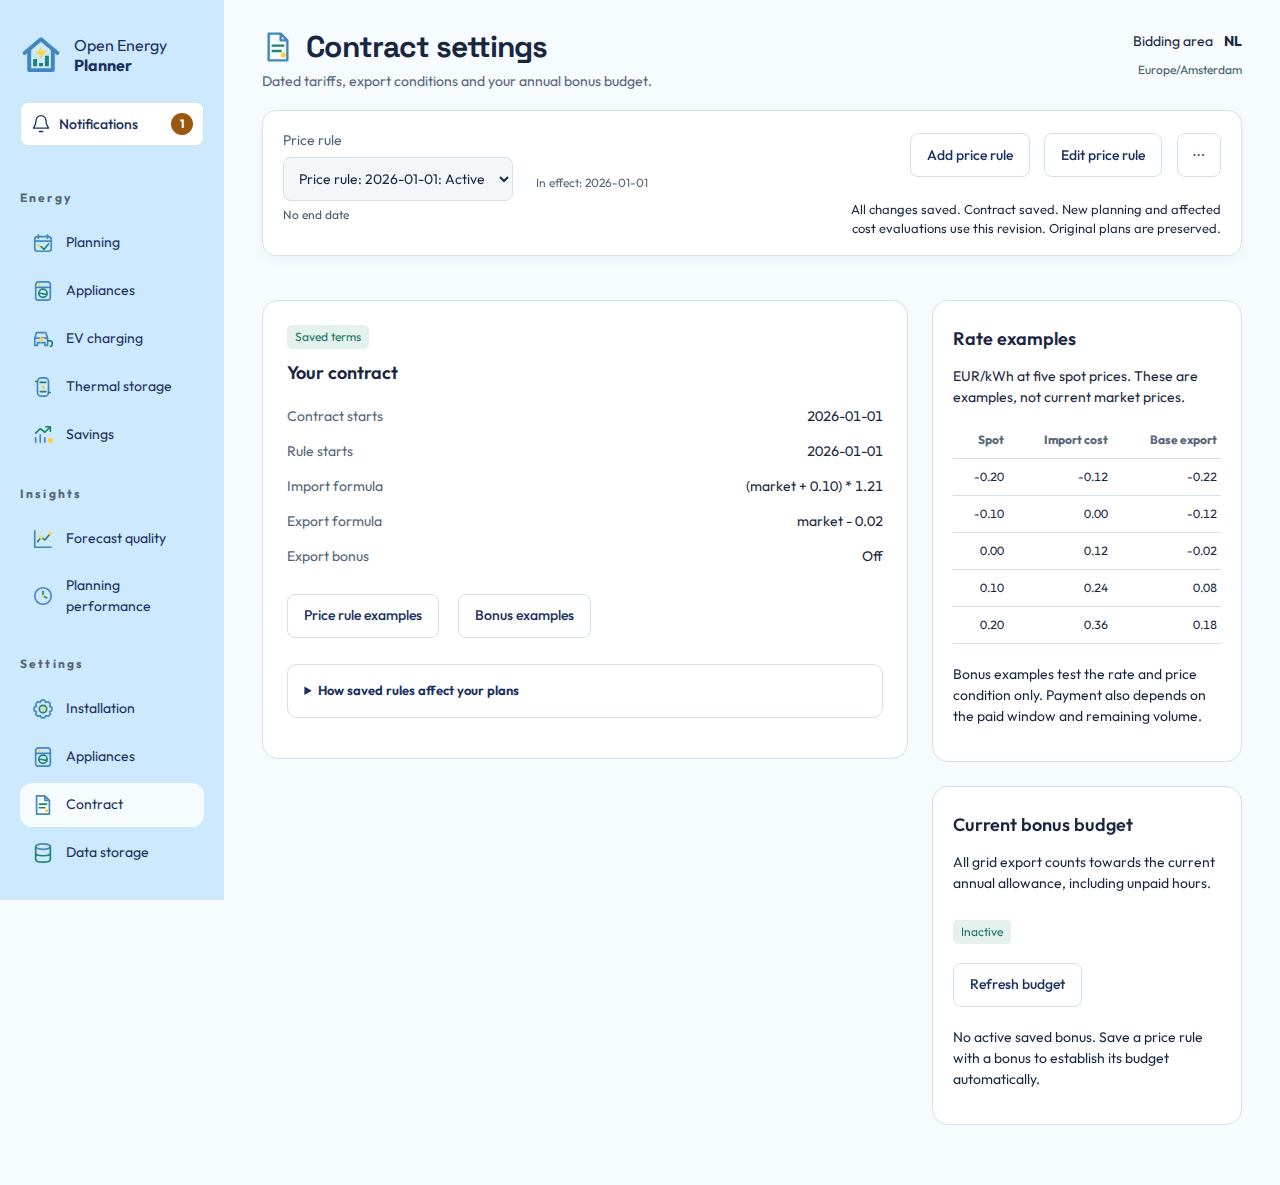
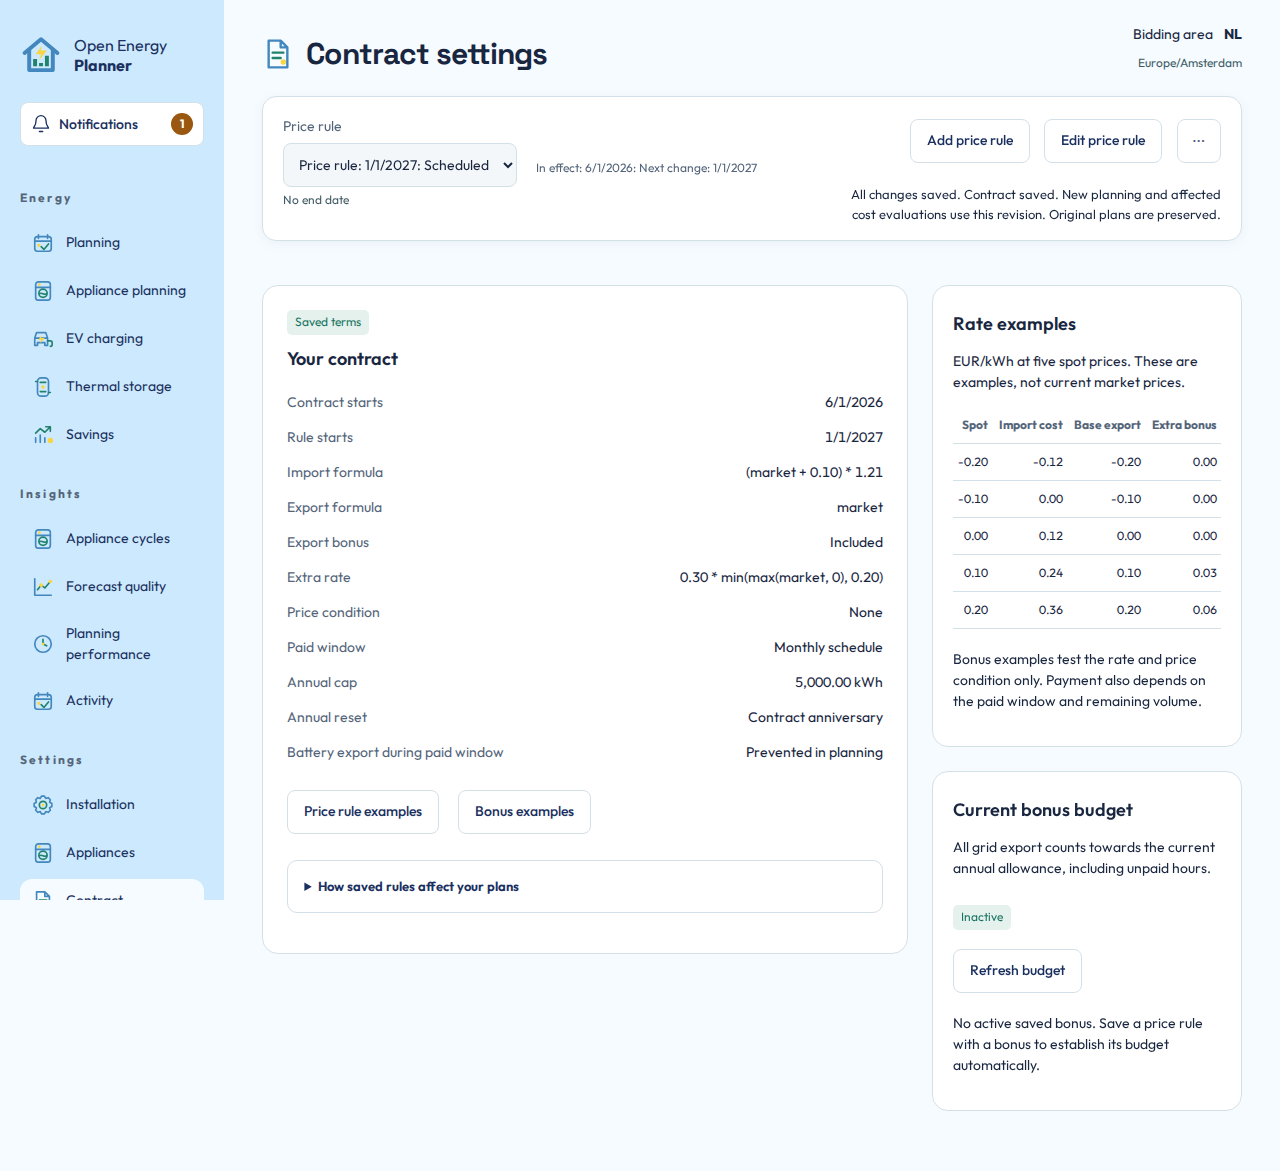
docs: show contract bonus settings and Budget Energie example

diff --git a/tests/frontend/browser/test_documentation_examples.py b/tests/frontend/browser/test_documentation_examples.py
@@ -1,5 +1,6 @@
 """Capture useful guide figures from real pages with explicitly synthetic example data."""
 
+import json
 from pathlib import Path
 
 import pytest
@@ -8,6 +9,7 @@ from playwright.sync_api import expect
 from tests.frontend.browser.documentation_fixture import START, quality_document
 from tests.frontend.browser.helpers import (
     TOKEN,
+    add_price_rule,
     connect,
     discover,
     edit_price_rule,
@@ -120,20 +122,88 @@ def test_documentation_installation_shows_saved_limits_and_real_source_relations
 
 
 def test_documentation_contract_explains_actual_formula_preview(app_page):
-    """Save dated formulas whose 0.10-EUR market example has 0.24 import and 0.08 export rates."""
+    """Save the Budget bonus example with separate rates, monthly hours and battery protection."""
     page, url = app_page
     discover(page, url)
     authenticate(page, url, "/contract")
     edit_price_rule(page)
-    page.get_by_label("Contract starts", exact=True).fill("2026-01-01")
-    page.get_by_label("Price rule starts", exact=True).fill("2026-01-01")
+    page.get_by_label("Contract starts", exact=True).fill("2026-06-01")
+    page.get_by_label("Price rule starts", exact=True).fill("2026-06-01")
     page.get_by_label("Import formula", exact=True).fill("(market + 0.10) * 1.21")
-    page.get_by_label("Export formula", exact=True).fill("market - 0.02")
-    page.get_by_role("button", name="Preview rates", exact=True).click()
-    expect(page.locator("#contract-preview")).to_contain_text("0.24")
-    expect(page.locator("#contract-preview")).to_contain_text("0.08")
+    page.get_by_label("Export formula", exact=True).fill("market")
     page.get_by_role("button", name="Save contract", exact=True).click()
     expect(page.locator("#contract-status")).to_contain_text("Contract saved")
+    add_price_rule(page)
+    rule = page.locator("#contract-periods > details:not([hidden])")
+    rule.get_by_label("Price rule starts", exact=True).fill("2027-01-01")
+    rule.get_by_role("checkbox", name="Include export bonus", exact=True).check()
+    rule.get_by_label("Extra export rate", exact=True).fill("0.30 * min(max(market, 0), 0.20)")
+    rule.get_by_label("Annual export cap (kWh)", exact=True).fill("5000")
+    rule.get_by_label("Annual reset", exact=True).select_option("contract_anniversary")
+    rule.get_by_label("Paid window", exact=True).select_option("monthly_schedule")
+    rule.get_by_text("Monthly hours", exact=True).click()
+    monthly_hours = (
+        ("January", "09:00", "17:00"),
+        ("February", "08:00", "18:00"),
+        ("March", "07:00", "19:00"),
+        ("April", "07:00", "21:00"),
+        ("May", "06:00", "21:00"),
+        ("June", "05:00", "22:00"),
+        ("July", "06:00", "22:00"),
+        ("August", "06:00", "21:00"),
+        ("September", "07:00", "20:00"),
+        ("October", "08:00", "19:00"),
+        ("November", "08:00", "17:00"),
+        ("December", "09:00", "17:00"),
+    )
+    for month, start, end in monthly_hours:
+        rule.get_by_label(f"{month} start", exact=True).fill(start)
+        rule.get_by_label(f"{month} end", exact=True).fill(end)
+    rule.get_by_role(
+        "checkbox", name="Prevent battery export during paid window", exact=True
+    ).check()
+    page.get_by_role("button", name="Preview rates", exact=True).click()
+    expect(page.locator("#contract-preview")).to_contain_text("0.24")
+    expect(page.locator("#contract-preview")).to_contain_text("0.03")
+    page.get_by_role("button", name="Save contract", exact=True).click()
+    expect(page.locator("#contract-status")).to_contain_text("Contract saved")
+    saved = page.request.get(
+        url + "/v1/contracts", headers={"Authorization": "Bearer " + TOKEN}
+    ).json()
+    assert len(saved["periods"]) == 2
+    assert saved["periods"][1]["export_formula"] == "market"
+    bonus = next(rule for rule in saved["bonuses"] if rule["rate_formula"] != "0")
+    assert bonus["rate_formula"] == "0.30 * min(max(market, 0), 0.20)"
+    assert bonus["cap_kwh"] == 5000
+    assert (bonus["reset_month"], bonus["reset_day"]) == (6, 1)
+    assert bonus["prevent_battery_export"] is True
+    assert bonus["window"] == "monthly_schedule"
+    assert bonus["monthly_schedule"] == [
+        {"start_time": start, "end_time": end} for _, start, end in monthly_hours
+    ]
+    catalogue = (
+        Path(__file__).resolve().parents[3] / "docs/development/CONTRACT-EXAMPLES-NL.md"
+    ).read_text(encoding="utf-8")
+    budget_example = catalogue.split("## Budget Energie ZonneBonus\n", 1)[1]
+    fragment = json.loads(budget_example.split("```json\n", 1)[1].split("```", 1)[0])
+    assert fragment["export_formula"] == saved["periods"][1]["export_formula"]
+    for field, value in fragment["bonuses"][0].items():
+        if field not in {"rule_id", "effective_from"}:
+            assert bonus[field] == value, field
+    preview = next(item for item in saved["bonus_preview"] if item["rule_id"] == bonus["rule_id"])
+    for sample in preview["samples"]:
+        market = sample["market"]
+        assert sample["extra_rate"] == pytest.approx(0 if market <= 0 else min(market * 0.30, 0.06))
+    summary = page.locator("#contract-summary")
+    for expected in (
+        "0.30 * min(max(market, 0), 0.20)",
+        "5,000.00 kWh",
+        "Contract anniversary",
+        "Monthly schedule",
+        "Prevented in planning",
+    ):
+        expect(summary).to_contain_text(expected)
+    assert page.evaluate("document.documentElement.scrollWidth <= innerWidth")
     capture(page, "contract-rule")
 
 

diff --git a/docs/development/CONTRACT-EXAMPLES-NL.md b/docs/development/CONTRACT-EXAMPLES-NL.md
@@ -53,7 +53,7 @@ period dates and `expected_version` as described in [contract settings](CONTRACT
 
 The `2027-01-01` effective dates illustrate the user's contract configuration.
 They are not claimed supplier launch dates. Use the customer's actual start date.
-The two suppliers are alternatives, not two rewards to enable on one contract.
+The supplier examples are alternatives, not rewards to enable together on one contract.
 
 ## Zonneplan Zonnebonus
 
@@ -192,9 +192,125 @@ counter and tax/VAT terms before actual use. The fragment does not claim exact
 supplier settlement where those conditions differ. Source:
 [NextEnergy terms index](https://www.nextenergy.nl/meer-info/voorwaarden).
 
+## Budget Energie ZonneBonus
+
+### What the bonus means
+
+The [Budget Thuis action terms dated 20 October 2026](https://www.budgetthuis.nl/docs/Actievoorwaarden_ZonneBonus.pdf),
+checked on **17 November 2026**, describe a bonus from 1 January 2027. It adds
+30.0% of a positive wholesale price, with that price capped at EUR 0.20/kWh for
+the bonus calculation. The extra rate therefore cannot exceed EUR 0.06/kWh.
+The allowance is 5,000 kWh per supply year. Payment uses a different daytime
+window each month. Battery use to obtain more bonus is prohibited.
+
+### Translation into OEP rules
+
+| Component | OEP configuration |
+|---|---|
+| Base export price | `export_formula: market` |
+| Separate bonus rate | `rate_formula: 0.30 * min(max(market, 0), 0.20)` |
+| Nonpositive wholesale price | The formula returns zero. No separate price condition is needed |
+| Payment window | `window: monthly_schedule`, using all twelve ranges below |
+| Annual allowance | `cap_kwh: 5000` |
+| Annual reset | **Contract anniversary**, derived from **Contract starts** |
+| Battery protection | `prevent_battery_export: true` |
+| Import formula | Copy the signed tariff. The bonus terms do not define an import tariff |
+
+The app's **Bonus examples > Budget Energie** panel describes these same fields.
+Use local hours in the Home Assistant installation timezone. OEP includes the
+start and excludes the end of each window.
+
+| Month | Start | End |
+|---|---|---|
+| January | 09:00 | 17:00 |
+| February | 08:00 | 18:00 |
+| March | 07:00 | 19:00 |
+| April | 07:00 | 21:00 |
+| May | 06:00 | 21:00 |
+| June | 05:00 | 22:00 |
+| July | 06:00 | 22:00 |
+| August | 06:00 | 21:00 |
+| September | 07:00 | 20:00 |
+| October | 08:00 | 19:00 |
+| November | 08:00 | 17:00 |
+| December | 09:00 | 17:00 |
+
+For example, keep **Contract starts** at 1 June 2026 and add a price rule
+starting on 1 January 2027 with the bonus enabled. The earlier June rule has no
+bonus. The first bonus allowance covers 1 January to 1 June 2027. Export before
+January is excluded. The next allowance starts on 1 June 2027 and ends on
+1 June 2028. A later price-rule revision does not restart consumed allowance.
+
+This fragment belongs to that January rule. Its June reset comes from the
+original contract start. Include the earlier base-price period and complete
+request fields described above when reproducing the two-rule example.
+
+```json
+{
+  "export_formula": "market",
+  "bonuses": [{
+    "rule_id": "budget-zonnebonus",
+    "effective_from": "2027-01-01T00:00:00+01:00",
+    "rate_formula": "0.30 * min(max(market, 0), 0.20)",
+    "price_condition": null,
+    "cap_kwh": 5000,
+    "timezone": "Europe/Amsterdam",
+    "reset_month": 6,
+    "reset_day": 1,
+    "prevent_battery_export": true,
+    "window": "monthly_schedule",
+    "monthly_schedule": [
+      {"start_time": "09:00", "end_time": "17:00"},
+      {"start_time": "08:00", "end_time": "18:00"},
+      {"start_time": "07:00", "end_time": "19:00"},
+      {"start_time": "07:00", "end_time": "21:00"},
+      {"start_time": "06:00", "end_time": "21:00"},
+      {"start_time": "05:00", "end_time": "22:00"},
+      {"start_time": "06:00", "end_time": "22:00"},
+      {"start_time": "06:00", "end_time": "21:00"},
+      {"start_time": "07:00", "end_time": "20:00"},
+      {"start_time": "08:00", "end_time": "19:00"},
+      {"start_time": "08:00", "end_time": "17:00"},
+      {"start_time": "09:00", "end_time": "17:00"}
+    ]
+  }]
+}
+```
+
+### Worked calculation
+
+Assume one exported kWh during that month's paid window with allowance remaining:
+
+| Market | Base income | Separate bonus income | Total income |
+|---:|---:|---:|---:|
+| -0.10 | -0.10 | 0.00 | -0.10 |
+| 0.00 | 0.00 | 0.00 | 0.00 |
+| 0.10 | 0.10 | 0.03 | 0.13 |
+| 0.20 | 0.20 | 0.06 | 0.26 |
+| 0.25 | 0.25 | 0.06 | 0.31 |
+
+Outside the paid window or after the allowance is exhausted, only base income
+remains. If 0.2 kWh remains and the market price is EUR 0.25/kWh, one exported
+kWh earns `0.25 + 0.2 * 0.06 = 0.262` EUR before display rounding. Keep the bonus
+outside the base export formula so that it is not paid twice or outside its
+conditions.
+
+### Exactness boundary
+
+OEP advances its allowance with all grid export, including unpaid hours and
+battery export. It does not identify direct solar export. Battery protection
+prevents planned battery discharge alongside grid export during paid windows
+while allowance remains at the interval start. It allows discharge for residual
+local demand. It does not enforce physical equipment behavior or reproduce
+supplier source exclusions. See [battery-export protection](BONUS-RULES.md).
+
+Budget settles on the annual or final bill and can change or end the action.
+OEP does not reproduce supplier estimates for missing meter data or guarantee
+settlement. Confirm eligibility, current signed terms and the tax/VAT basis.
+
 ## Starting counters and later rule changes
 
-Both examples require a confirmed seed for the corresponding `rule_id` and active
+All examples require a confirmed seed for the corresponding `rule_id` and active
 period, tied to the same cumulative HA grid-export sensor. If period exports were
 1,200 kWh when that meter read 4,500 kWh, a current reading of 4,700 means 1,400
 kWh has been counted. Candidate plans never update that actual counter. See the

diff --git a/docs/users/contract.md b/docs/users/contract.md
@@ -21,9 +21,14 @@ Negative prices are valid inputs. An effective export rate can be negative, mean
 5. Inspect the server-evaluated examples at negative, zero and positive market prices.
 6. Save the contract and wait for confirmation.
 
-[![A dated synthetic price rule with import/export formulas and their evaluated example rates.](../assets/contract-rule.png)](../assets/contract-rule.png)
+[![A saved January 2027 bonus rule with separate base export and bonus formulas, monthly hours, annual allowance and battery-export protection.](../assets/contract-rule.png)](../assets/contract-rule.png)
 
-*Read the formula together with the rate examples. The bonus is a separate column and must not also be embedded in the base export formula.*
+*This synthetic Budget Energie-style example enables the export bonus. Read the saved extra rate, monthly paid-window choice, 5,000-kWh cap, contract-anniversary reset and battery-export protection alongside the rate examples. The bonus is separate from the base export formula. The import formula is illustrative, not a supplier tariff.*
+
+The January 2027 rule is scheduled before its start date. An inactive current
+bonus budget at that point does not mean the selected future rule has no bonus.
+The [phone screenshot](../assets/contract-rule-mobile.png) shows the same saved
+rule and rate examples in the single-column layout.
 
 OEP's [formula reference](../development/CONTRACT-PRICES.md#supported-formula-language) defines the actual supported syntax. Use [the worked Dutch contract examples](../development/CONTRACT-EXAMPLES-NL.md) to understand building blocks, then check them against your own contract. Opening an example does not change saved terms. Do not assume that annual netting, tax refunds, subscriptions or investment costs are included.
 
@@ -64,6 +69,10 @@ Use `market` as the base export formula and
 `0.30 * min(max(market, 0), 0.20)` as the separate extra rate. The twelve monthly
 clock windows, 5,000 kWh allowance and battery restriction are listed there.
 Copy your import formula from your signed terms. No 2027 import tariff is assumed.
+At a market price of EUR 0.10/kWh, an eligible kWh earns EUR 0.10 base export
+income and EUR 0.03 bonus. At EUR 0.25/kWh, the bonus is capped at EUR 0.06.
+The preview tests only the rate and price condition. Actual payment also needs
+an eligible paid hour and remaining allowance. See the [complete worked example](../development/CONTRACT-EXAMPLES-NL.md#budget-energie-zonnebonus).
 
 For a contract that started on 1 June 2026, keep that **Contract starts** date
 and add a price rule starting on 1 January 2027 with the bonus enabled.

diff --git a/README.md b/README.md
@@ -111,9 +111,9 @@ Read [forecasts](docs/users/forecasts.md) and [appliances](docs/users/appliances
 
 A market-price feed alone does not describe your bill. OEP separates market prices, effective import/export formulas and additional qualifying export revenue. Rules have effective dates. Bonus conditions can include price gates, paid hours, an annual volume allowance, reset dates and battery-export restrictions.
 
-[![Contract settings show dated import/export formulas and evaluated example rates.](docs/assets/contract-rule.png)](docs/assets/contract-rule.png)
+[![Contract settings show a saved Budget Energie-style bonus rule with separate rates, monthly paid hours, a 5,000-kWh cap and battery-export protection.](docs/assets/contract-rule.png)](docs/assets/contract-rule.png)
 
-*Check negative, zero and positive market-price examples. Keep an extra bonus outside the base export formula so it is not counted twice.*
+*The synthetic January 2027 rule keeps base export at `market` and adds the bonus separately. Its summary shows the monthly schedule, 5,000-kWh allowance, contract-anniversary reset and battery-export protection. The import formula is illustrative. Check negative, zero and positive rate examples, and never count the bonus twice.*
 
 Worked Dutch examples cover Zonneplan, NextEnergy and Budget Energie bonus structures. They illustrate configurable rules, not automatic supplier integration or a guarantee that your current signed terms match. Measured export history can establish opening allowance usage. Proposed export does not consume that measured counter. See [contract configuration](docs/users/contract.md) and the [worked formulas](docs/development/CONTRACT-EXAMPLES-NL.md). Fixed subscriptions, annual netting and a complete supplier invoice are outside this marginal planning calculation.
 
